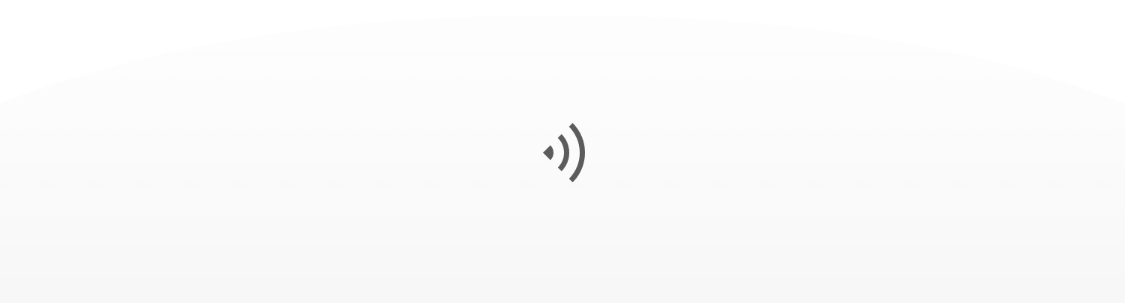
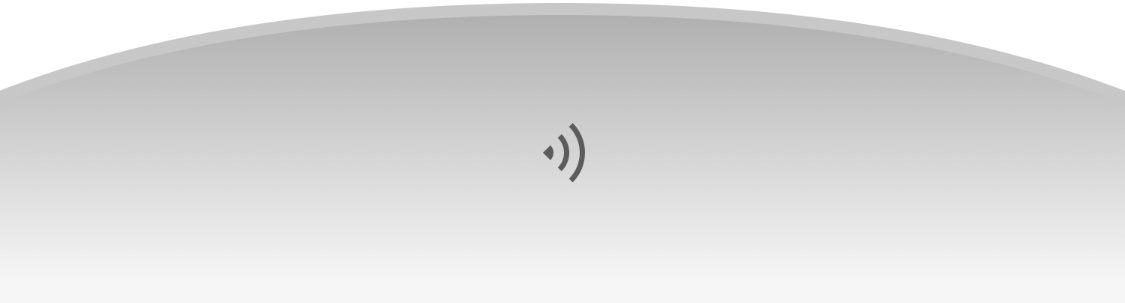
更新

diff --git a/lib/basicWidget/im_sound_record_bar.dart b/lib/basicWidget/im_sound_record_bar.dart
@@ -9,6 +9,7 @@
 
 import 'package:flutter/material.dart';
 import 'package:flutter_screenutil/flutter_screenutil.dart';
+import 'package:flutter_templet_project/basicWidget/im_sound_recording_page.dart';
 import 'package:flutter_templet_project/extension/build_context_ext.dart';
 import 'package:flutter_templet_project/extension/color_ext.dart';
 import 'package:flutter_templet_project/extension/overlay_ext.dart';
@@ -53,8 +54,13 @@ class _IMSoundRecordBarState extends State<IMSoundRecordBar> {
     return GestureDetector(
       onLongPressStart: (details){
         debugPrint("onLongPressStart");
+
+        cancelVN.value = false;
         showEntry(
-          child: buildRecoring(),
+          child: IMSoundRecordingPage(
+            cancelVN: cancelVN,
+            duration: const Duration(milliseconds: 100),
+          ),
         );
         widget.onRecordStart.call();
       },
@@ -62,7 +68,9 @@ class _IMSoundRecordBarState extends State<IMSoundRecordBar> {
         // debugPrint("${DateTime.now()} bottomSheet onPanUpdate ${e.globalPosition}");
 
         final temp = e.globalPosition.dy < screeenSize.height - bottomBarHeight;
-        if (cancelVN.value == temp) return;
+        if (cancelVN.value == temp) {
+          return;
+        }
         cancelVN.value = temp;
         setState(() {});
       },
@@ -92,102 +100,6 @@ class _IMSoundRecordBarState extends State<IMSoundRecordBar> {
           ),
         ),
       ),
-    );
-  }
-
-
-  Widget buildRecoring({double bottomBarHeight = 100}) {
-    return ValueListenableBuilder<bool>(
-      valueListenable: cancelVN,
-      builder: (context, isCancel, child){
-
-        final closeButtonIconName =  (isCancel ? "img_sound_overlay_button_cancel.png" : "img_sound_overlay_button.png");
-        final bottombarIconName =  (isCancel ? "img_sound_overlay_bottom_cancel.png" : "img_sound_overlay_bottom.png");
-
-        return Container(
-          color: Colors.black.withOpacity(0.5),
-          child: Column(
-            mainAxisAlignment: MainAxisAlignment.end,
-            crossAxisAlignment: CrossAxisAlignment.stretch,
-            children: [
-              Container(
-                // width: 206.w,
-                height: 111.w,
-                alignment: Alignment.center,
-                decoration: BoxDecoration(
-                  image: DecorationImage(
-                    image: "img_sound_overlay_bg_recording.png".toAssetImage(),
-                    fit: BoxFit.scaleDown,
-                    colorFilter: ColorFilter.mode(
-                      isCancel ? Colors.red : primaryColor,
-                      BlendMode.srcIn,
-                    ),
-                  ),
-                ),
-                child: Image(
-                  image: "img_sound_recording.gif".toAssetImage(),
-                  width: 112.w,
-                  height: 42.w,
-                ),
-              ),
-              SizedBox(height: 190.h,),
-              Opacity(
-                opacity: isCancel ? 1 : 0,
-                child: Container(
-                  padding: EdgeInsets.symmetric(vertical: 12.h),
-                  alignment: Alignment.center,
-                  child: Text("松开 取消",
-                    style: TextStyle(
-                      color: fontColor[20],
-                      fontSize: 14.sp,
-                      fontWeight: FontWeight.bold,
-                    ),
-                  ),
-                ),
-              ),
-              Container(
-                alignment: Alignment.center,
-                decoration: const BoxDecoration(
-
-                ),
-                child: Image(
-                  image: closeButtonIconName.toAssetImage(),
-                  width: 64,
-                  height: 64,
-                ),
-              ),
-              Opacity(
-                opacity: !isCancel ? 1 : 0,
-                child: Container(
-                  padding: EdgeInsets.symmetric(vertical: 12.h),
-                  alignment: Alignment.center,
-                  child: Text("松开 发送",
-                    style: TextStyle(
-                      color: fontColor[20],
-                      fontSize: 14.sp,
-                      fontWeight: FontWeight.bold,
-                    ),
-                  ),
-                ),
-              ),
-              AnimatedContainer(
-                duration: const Duration(milliseconds: 1350),
-                child: Container(
-                  height: bottomBarHeight,
-                  // alignment: Alignment.center,
-                  decoration: BoxDecoration(
-                    image: DecorationImage(
-                      image: bottombarIconName.toAssetImage(),
-                      fit: BoxFit.fill,
-                      // colorFilter: ColorFilter.mode(Colors.yellow, BlendMode.srcIn),
-                    ),
-                  ),
-                ),
-              ),
-            ],
-          ),
-        );
-      }
     );
   }
 

diff --git a/lib/basicWidget/im_sound_recording_page.dart b/lib/basicWidget/im_sound_recording_page.dart
@@ -1,0 +1,142 @@
+//
+//  ImSoundRecordingPage.dart
+//  flutter_templet_project
+//
+//  Created by shang on 2023/10/24 19:25.
+//  Copyright © 2023/10/24 shang. All rights reserved.
+//
+
+
+import 'package:flutter/material.dart';
+import 'package:flutter_templet_project/basicWidget/n_transition_builder.dart';
+import 'package:flutter_templet_project/extension/string_ext.dart';
+import 'package:flutter_templet_project/uti/color_util.dart';
+
+
+/// 发语音: 声音录制页面
+class IMSoundRecordingPage extends StatelessWidget {
+
+  const IMSoundRecordingPage({
+    Key? key,
+    this.bottomBarHeight = 100,
+    this.duration = const Duration(milliseconds: 350),
+    required this.cancelVN,
+  }) : super(key: key);
+
+  final double bottomBarHeight;
+
+  /// 动画时间
+  final Duration duration;
+
+  final ValueNotifier<bool> cancelVN;
+
+  @override
+  Widget build(BuildContext context) {
+    final primary = Theme.of(context).primaryColor;
+
+    return ValueListenableBuilder<bool>(
+      valueListenable: cancelVN,
+      builder: (context, isCancel, child) {
+        final closeButtonIconName =
+        (isCancel ? "img_sound_overlay_button_cancel.png" : "img_sound_overlay_button.png");
+        final bottomBarIconName = (isCancel ? "img_sound_overlay_bottom_cancel.png" : "img_sound_overlay_bottom.png");
+
+        return Container(
+          color: Colors.black.withOpacity(0.5),
+          child: Column(
+            mainAxisAlignment: MainAxisAlignment.end,
+            crossAxisAlignment: CrossAxisAlignment.stretch,
+            children: [
+              Container(
+                // width: 206.w,
+                height: 111,
+                alignment: Alignment.center,
+                decoration: BoxDecoration(
+                  // border: Border.all(width: 1),
+                  image: DecorationImage(
+                    image: "img_sound_overlay_bg_recording.png".toAssetImage(),
+                    fit: BoxFit.scaleDown,
+                    colorFilter: ColorFilter.mode(
+                      isCancel ? Colors.red : primary,
+                      BlendMode.srcIn,
+                    ),
+                  ),
+                ),
+                child: Image(
+                  image: "img_sound_recording.gif".toAssetImage(),
+                  width: 150,
+                  height: 70,
+                ),
+              ),
+              const SizedBox(
+                height: 190,
+              ),
+              Opacity(
+                opacity: isCancel ? 1 : 0,
+                child: Container(
+                  padding: const EdgeInsets.symmetric(vertical: 12),
+                  alignment: Alignment.center,
+                  child: Text(
+                    "松开 取消",
+                    style: TextStyle(
+                      color: fontColor,
+                      fontSize: 14,
+                      fontWeight: FontWeight.bold,
+                    ),
+                  ),
+                ),
+              ),
+              Container(
+                alignment: Alignment.center,
+                decoration: const BoxDecoration(),
+                child: Image(
+                  image: closeButtonIconName.toAssetImage(),
+                  width: 64,
+                  height: 64,
+                ),
+              ),
+              Opacity(
+                opacity: !isCancel ? 1 : 0,
+                child: Container(
+                  padding: const EdgeInsets.symmetric(vertical: 12),
+                  alignment: Alignment.center,
+                  child: Text(
+                    "松开 发送",
+                    style: TextStyle(
+                      color: fontColor[15],
+                      fontSize: 14,
+                      fontWeight: FontWeight.bold,
+                    ),
+                  ),
+                ),
+              ),
+              NTransitionBuilder(
+                duration: duration,
+                builder: (context, controller, Animation<double> animation) {
+
+                  return SizeTransition(
+                    axisAlignment: 0.0,
+                    sizeFactor: animation,
+                    axis: Axis.vertical,
+                    child: Container(
+                      height: bottomBarHeight,
+                      // alignment: Alignment.center,
+                      decoration: BoxDecoration(
+                        image: DecorationImage(
+                          image: bottomBarIconName.toAssetImage(),
+                          fit: BoxFit.fill,
+                          // colorFilter: ColorFilter.mode(Colors.yellow, BlendMode.srcIn),
+                        ),
+                      ),
+                    ),
+                  );
+                },
+              ),
+            ],
+          ),
+        );
+      }
+    );
+  }
+
+}

diff --git a/lib/basicWidget/im_textfield_bar.dart b/lib/basicWidget/im_textfield_bar.dart
@@ -5,6 +5,7 @@ import 'dart:math';
 
 import 'package:flutter/material.dart';
 import 'package:flutter_screenutil/flutter_screenutil.dart';
+import 'package:flutter_templet_project/basicWidget/im_sound_record_bar.dart';
 import 'package:flutter_templet_project/basicWidget/n_textfield.dart';
 import 'package:flutter_templet_project/extension/string_ext.dart';
 import 'package:flutter_templet_project/extension/widget_ext.dart';
@@ -135,33 +136,26 @@ class _IMTextfieldBarState extends State<IMTextfieldBar> with WidgetsBindingObse
       onSubmitted: widget.onSubmitted,
     );
 
-    final box = GestureDetector(
-      onLongPressStart: (details){
-        debugPrint("onLongPressStart");
+    final box = IMSoundRecordBar(
+      height: 48,
+      onRecordStart: () async {
+        // debugPrint("${DateTime.now()} onRecordStart");
+        // await soundStartRecord();
       },
-      onLongPressEnd: (details){
-        debugPrint("onLongPressEnd");
+      onRecordEnd: (bool isCancel) async {
+        // debugPrint("${DateTime.now()} onRecordEnd");
+        // final fileURL = await stopSoundRecorder();
+        // debugPrint("${DateTime.now()} onRecordEnd fileURL: $fileURL");
+        // // play(fromURI: fileURL);//add test
+        // if (isCancel) {
+        //   return;
+        // }
+        // if (soundDuration <= 1) {
+        //   EasyToast.showToast("说话时间太短");
+        //   return;
+        // }
+
       },
-      onLongPressCancel: () {
-        debugPrint("onLongPressCancel");
-      },
-      child: Container(
-        height: 48,
-        alignment: Alignment.center,
-        // padding: EdgeInsets.symmetric(horizontal: 16.w, vertical: 8.w),
-        decoration: BoxDecoration(
-          color: Colors.white,
-          borderRadius: BorderRadius.all(Radius.circular(4.w)),
-        ),
-        child: Text("按住说话",
-          textAlign: TextAlign.center,
-          style: TextStyle(
-            fontSize: 18.sp,
-            fontWeight: FontWeight.bold,
-            color: fontColor
-          ),
-        ),
-      ),
     );
 
     return Container(

diff --git a/lib/pages/SecondPage.dart b/lib/pages/SecondPage.dart
@@ -600,6 +600,10 @@ class _SecondPageState extends State<SecondPage> {
               alignment: Alignment.center,
               child: Text("dash_painter"),
             ),
+            // Container(
+            //   decoration: TriangleDecoration(color: Colors.red, size: 8.0),
+            //   child: NText("TriangleDecoration"),
+            // ),
             SizedBox(height: 20,),
 
           ],
